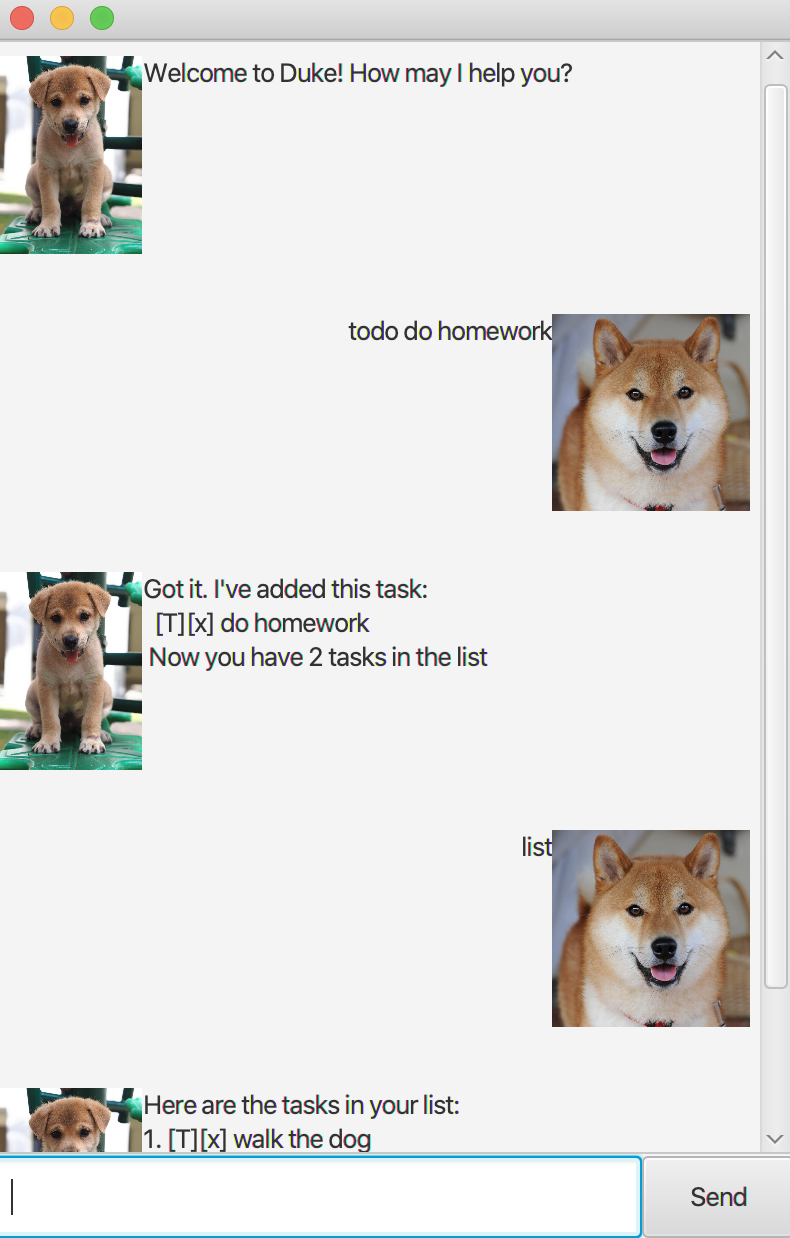
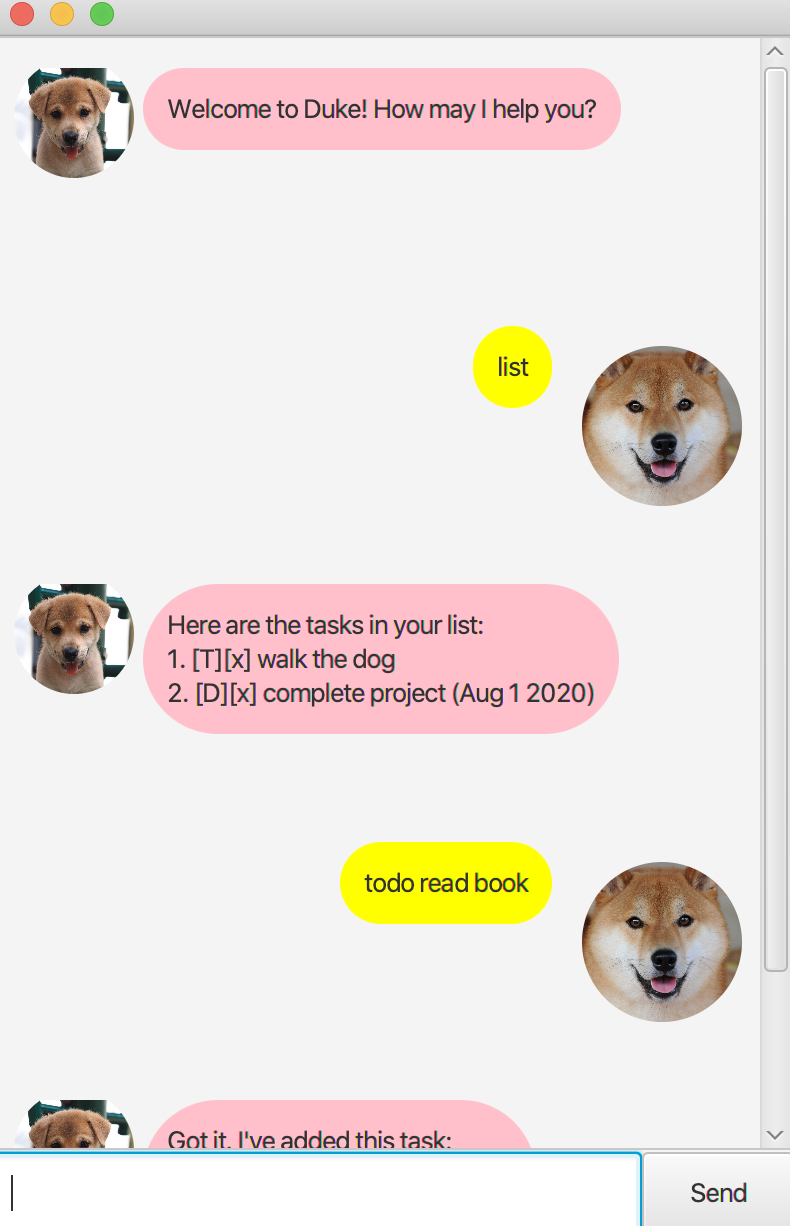
Improve GUI and UG

diff --git a/src/main/java/DialogBox.java b/src/main/java/DialogBox.java
@@ -11,6 +11,8 @@ import javafx.scene.control.Label;
 import javafx.scene.image.Image;
 import javafx.scene.image.ImageView;
 import javafx.scene.layout.HBox;
+import javafx.scene.shape.Circle;
+import javafx.geometry.Insets;
 
 /**
  * An example of a custom control using FXML.
@@ -32,7 +34,15 @@ public class DialogBox extends HBox {
         } catch (IOException e) {
             e.printStackTrace();
         }
-
+        Circle circle = new Circle();
+        circle.setCenterX(55);
+        circle.setCenterY(50);
+        circle.setRadius(40);
+        
+        displayPicture.setClip(circle);
+        dialog.setStyle("-fx-background-color: yellow;" + "-fx-background-radius: 50;");
+        dialog.setPadding(new Insets(12));
+        
         dialog.setText(text);
         displayPicture.setImage(img);
     }
@@ -45,6 +55,16 @@ public class DialogBox extends HBox {
         Collections.reverse(tmp);
         getChildren().setAll(tmp);
         setAlignment(Pos.TOP_LEFT);
+
+        Circle circle = new Circle();
+        circle.setCenterX(40);
+        circle.setCenterY(25);
+        circle.setRadius(30);
+
+        displayPicture.setClip(circle);
+        dialog.setStyle("-fx-background-color: pink;" + "-fx-background-radius: 50;");
+        dialog.setPadding(new Insets(12));
+
     }
 
     public static DialogBox getUserDialog(String text, Image img) {

diff --git a/docs/README.md b/docs/README.md
@@ -12,70 +12,105 @@
 
 
 ### Add a task to do: todo
-Adds a todo-task to the task list.
+Adds a 'todo' with the specified description to the task list.
 
-Format: todo TASK
+Format: 'todo TASK'
 
-Examples: 
-* todo walk the dog
-* todo read a book
+Example: 'todo walk the dog'
+
+Expected Outcome:
+ '   Got it. I've added this task:
+        [T][x] walk the dog
+    Now you have 3 tasks in the list
+'
 
 ### Add a task with a deadline: deadline
-Adds a deadline-task to the task list.
+Adds a 'deadline' with the specified description to the task list.
 
-Format: deadline TASK /by DATE
+Format: 'deadline TASK /by DATE'
 * DATE format is in **YYYY-MM-DD**
 
-Examples:
-* deadline complete individual project /by 2020-09-18
-* deadline return books /by 2020-09-20
+Example: 'deadline complete individual project /by 2020-09-18'
+
+Expected Outcome:
+ '   Got it. I've added this task:
+        [D][x] complete individual project (Sep 18 2020)
+    Now you have 4 tasks in the list
+'
 
 ### Add an event: event
-Adds an event-task to the task list.
+Adds an 'event' with the specified description to the task list.
 
 Format: event TASK /at DATE
 * DATE format is in **YYYY-MM-DD**
 
-Examples:
-* event music festival /at 2020-09-20
-* event project meeting /at 2020-10-01
+Example: event music festival /at 2020-09-20
 
+Expected Outcome:
+ '   Got it. I've added this task:
+        [E][x] music festival (Sep 20 2020)
+    Now you have 5 tasks in the list
+'
 ### Remove a task: remove
 Removes a task from the task list.
 
-Format: remove INDEX
+Format: 'remove INDEX'
 * Removes the task at the specified index
 * The index refers to the index number of the task as shown in the list
 * The index **must be a positive integer** 1,2,3
 
-Example:
-* remove 2 
+Example: 'remove 2' 
+
+Expected Outcome:
+'   Noted. I've removed this task:
+       [T][x] read book
+    Now you have 4 tasks in the list.
+'
 
 ### Mark task as done: done
 Marks a task as done in the task list.
 
-Format: done INDEX
+Format: 'done INDEX'
 * Marks the task at the specified index as done (using a tick)
 *  The index refers to the index number of the task as shown in the list
 * The index **must be a positive integer** 1,2,3
 
-Example:
-* done 2
+Example: 'done 2'
+
+Expected Outcome:
+' Nice! I've marked this task as done:
+        [/] walk the dog
+'
 
 ### Find task by keyword: find
 Finds a task in the task list by keyword.
 
-Format: find KEYWORD
+Format: 'find KEYWORD'
+
+Example: 'find music'
+
+Expected Outcome:
+' Tasks Found:
+    5. [E][x] music festival (Sep 20 2020)
+'
 
 ### List tasks: list
 Lists the current task list.
 
-Format: list
+Format: 'list'
+
+Expected Outcome:
+'   Here are the tasks in your list:
+        1. [T][x] complete project 
+'
 
 ### Exit the program: bye
 Exits the program.
 
-Format: bye
+Format: 'bye'
+
+Expected Outcome:
+'Bye. Hope to see you again soon!'
 
 ### Saving data
 Task List data is automatically saved in the harddisk after any command that changes its data.
